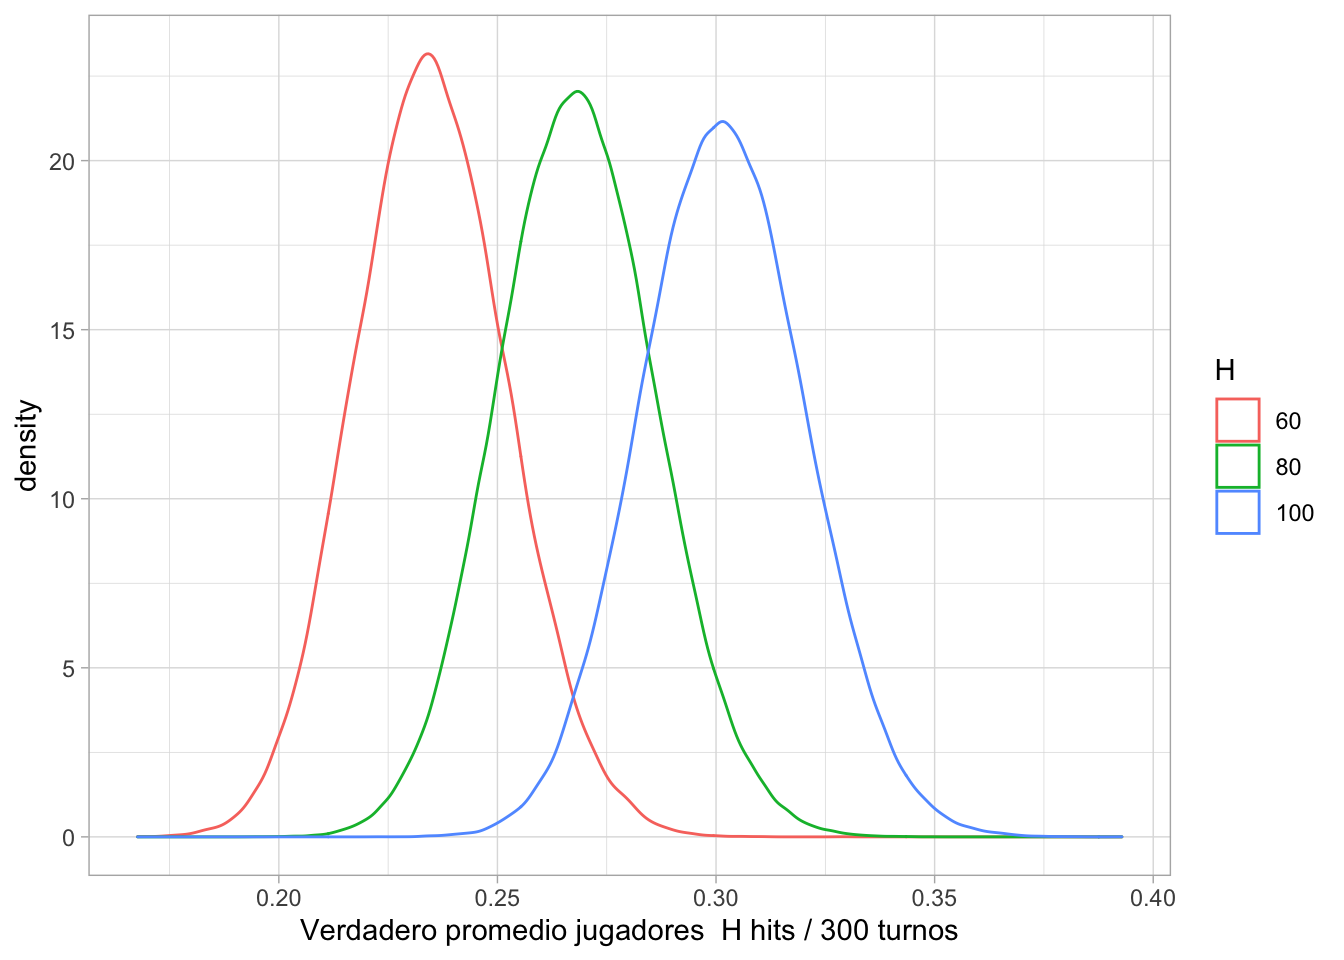
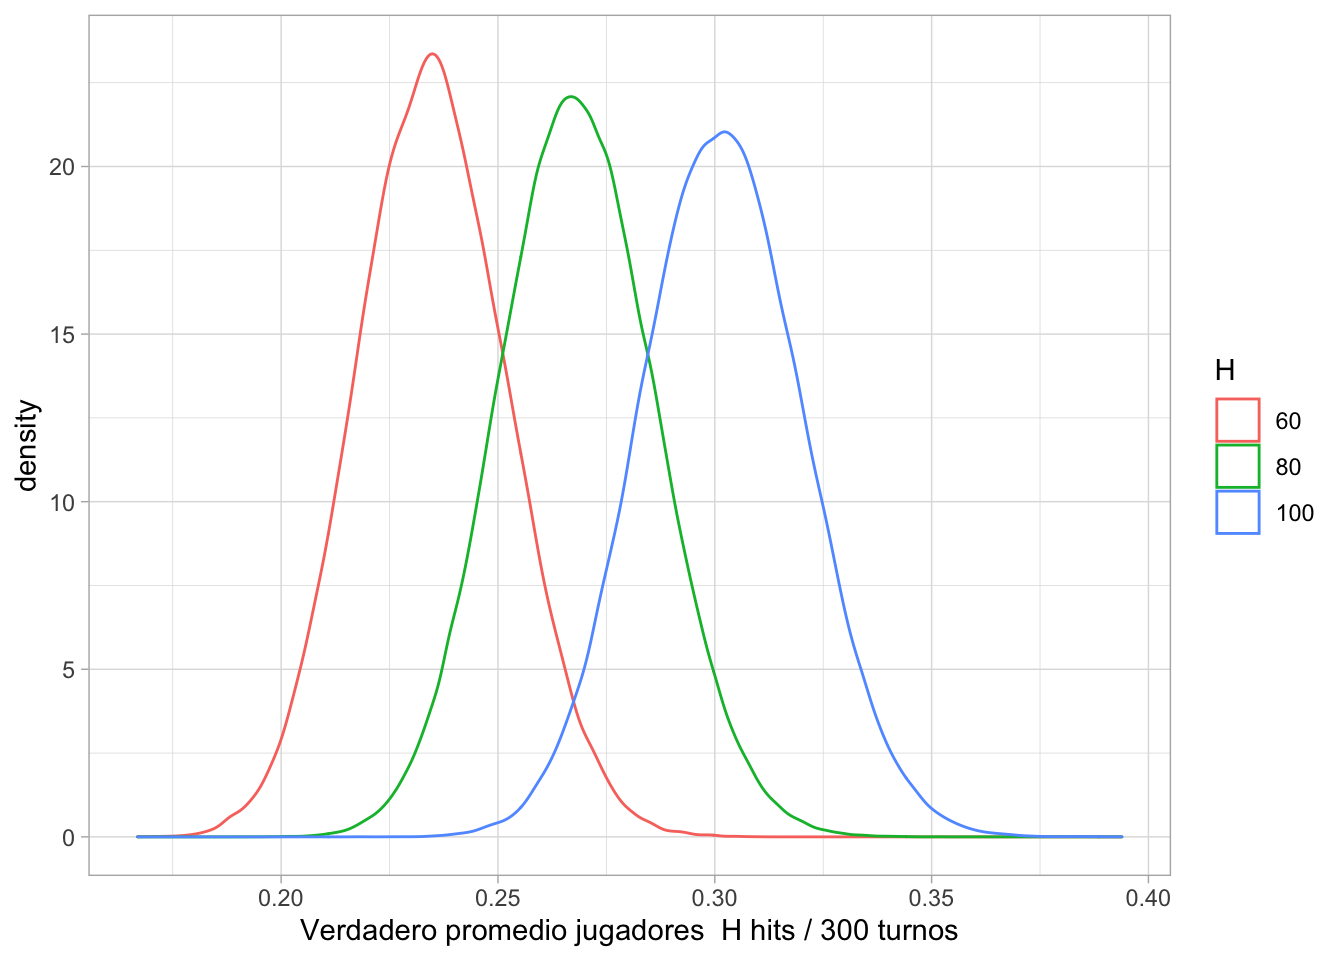
add page

diff --git a/content/post/2019-02-09-Distribucion_Beta.html b/content/post/2019-02-09-Distribucion_Beta.html
@@ -136,22 +136,22 @@ Teniendo presente que la inferior del estimativo está dado por</p>
 <pre><code>## # A tibble: 6 x 2
 ##   true_average  hits
 ##          &lt;dbl&gt; &lt;int&gt;
-## 1        0.254    79
-## 2        0.280    75
-## 3        0.282    77
-## 4        0.258    69
-## 5        0.307   100
-## 6        0.323    92</code></pre>
+## 1        0.268    81
+## 2        0.243    63
+## 3        0.304    98
+## 4        0.291    79
+## 5        0.286    64
+## 6        0.237    76</code></pre>
 <p>Ahora se debe buscar los jugadores que realmente cumplieron el estimativo de <span class="math inline">\(\frac{100}{300}\)</span></p>
 <pre><code>## # A tibble: 6 x 2
 ##   true_average  hits
 ##          &lt;dbl&gt; &lt;int&gt;
-## 1        0.307   100
-## 2        0.291   100
-## 3        0.320   100
-## 4        0.301   100
-## 5        0.293   100
-## 6        0.314   100</code></pre>
+## 1        0.295   100
+## 2        0.296   100
+## 3        0.311   100
+## 4        0.286   100
+## 5        0.303   100
+## 6        0.318   100</code></pre>
 <p>Ahora toca visualizar los promedios de bateo de estos <span class="math inline">\(\frac{100}{300}\)</span> e identificar que tan bueno era el jugador mediano</p>
 <pre><code>## `stat_bin()` using `bins = 30`. Pick better value with `binwidth`.</code></pre>
 <p><img src="/post/2019-02-09-Distribucion_Beta_files/figure-html/unnamed-chunk-9-1.png" width="672" /></p>
